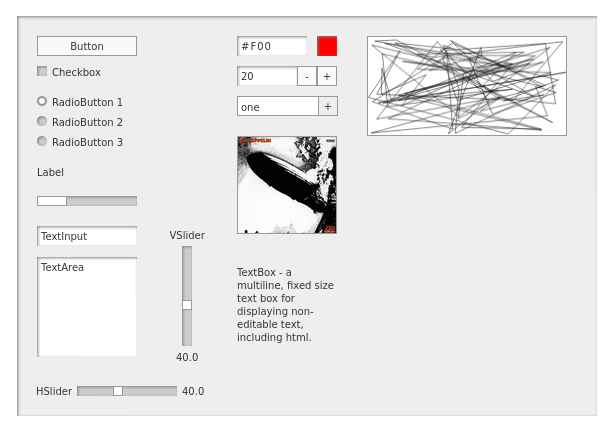
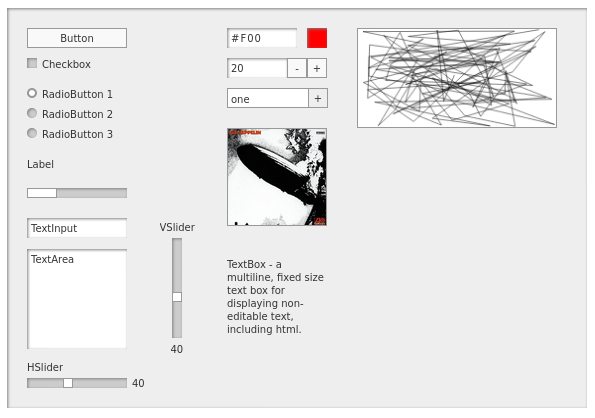
updated demo and screenshot

Changed region(s): [[0.0, 0.0, 0.9983, 0.9952], [0.363, 0.622, 0.5445, 0.8086], [0.2723, 0.5287, 0.3328, 0.8397]]

diff --git a/demos/globaldemo/main.js b/demos/globaldemo/main.js
@@ -9,7 +9,7 @@ new mc2.Label(panel, 20, 150, "Label");
 new mc2.ProgressBar(panel, 20, 180, 30, 100);
 new mc2.TextInput(panel, 20, 210, "TextInput");
 new mc2.TextArea(panel, 20, 240, "TextArea");
-new mc2.HSlider(panel, 60, 370, "HSlider", 40, 0, 100);
+new mc2.HSlider(panel, 20, 370, "HSlider", 40, 0, 100);
 new mc2.VSlider(panel, 165, 230, "VSlider", 40, 0, 100);
 
 new mc2.ColorPicker(panel, 220, 20, "#f00");

diff --git a/demos/moduledemo/main.js b/demos/moduledemo/main.js
@@ -11,7 +11,7 @@ new Label(panel, 20, 150, "Label");
 new ProgressBar(panel, 20, 180, 30, 100);
 new TextInput(panel, 20, 210, "TextInput");
 new TextArea(panel, 20, 240, "TextArea");
-new HSlider(panel, 60, 370, "HSlider", 40, 0, 100);
+new HSlider(panel, 20, 370, "HSlider", 40, 0, 100);
 new VSlider(panel, 165, 230, "VSlider", 40, 0, 100);
 
 new ColorPicker(panel, 220, 20, "#f00");
